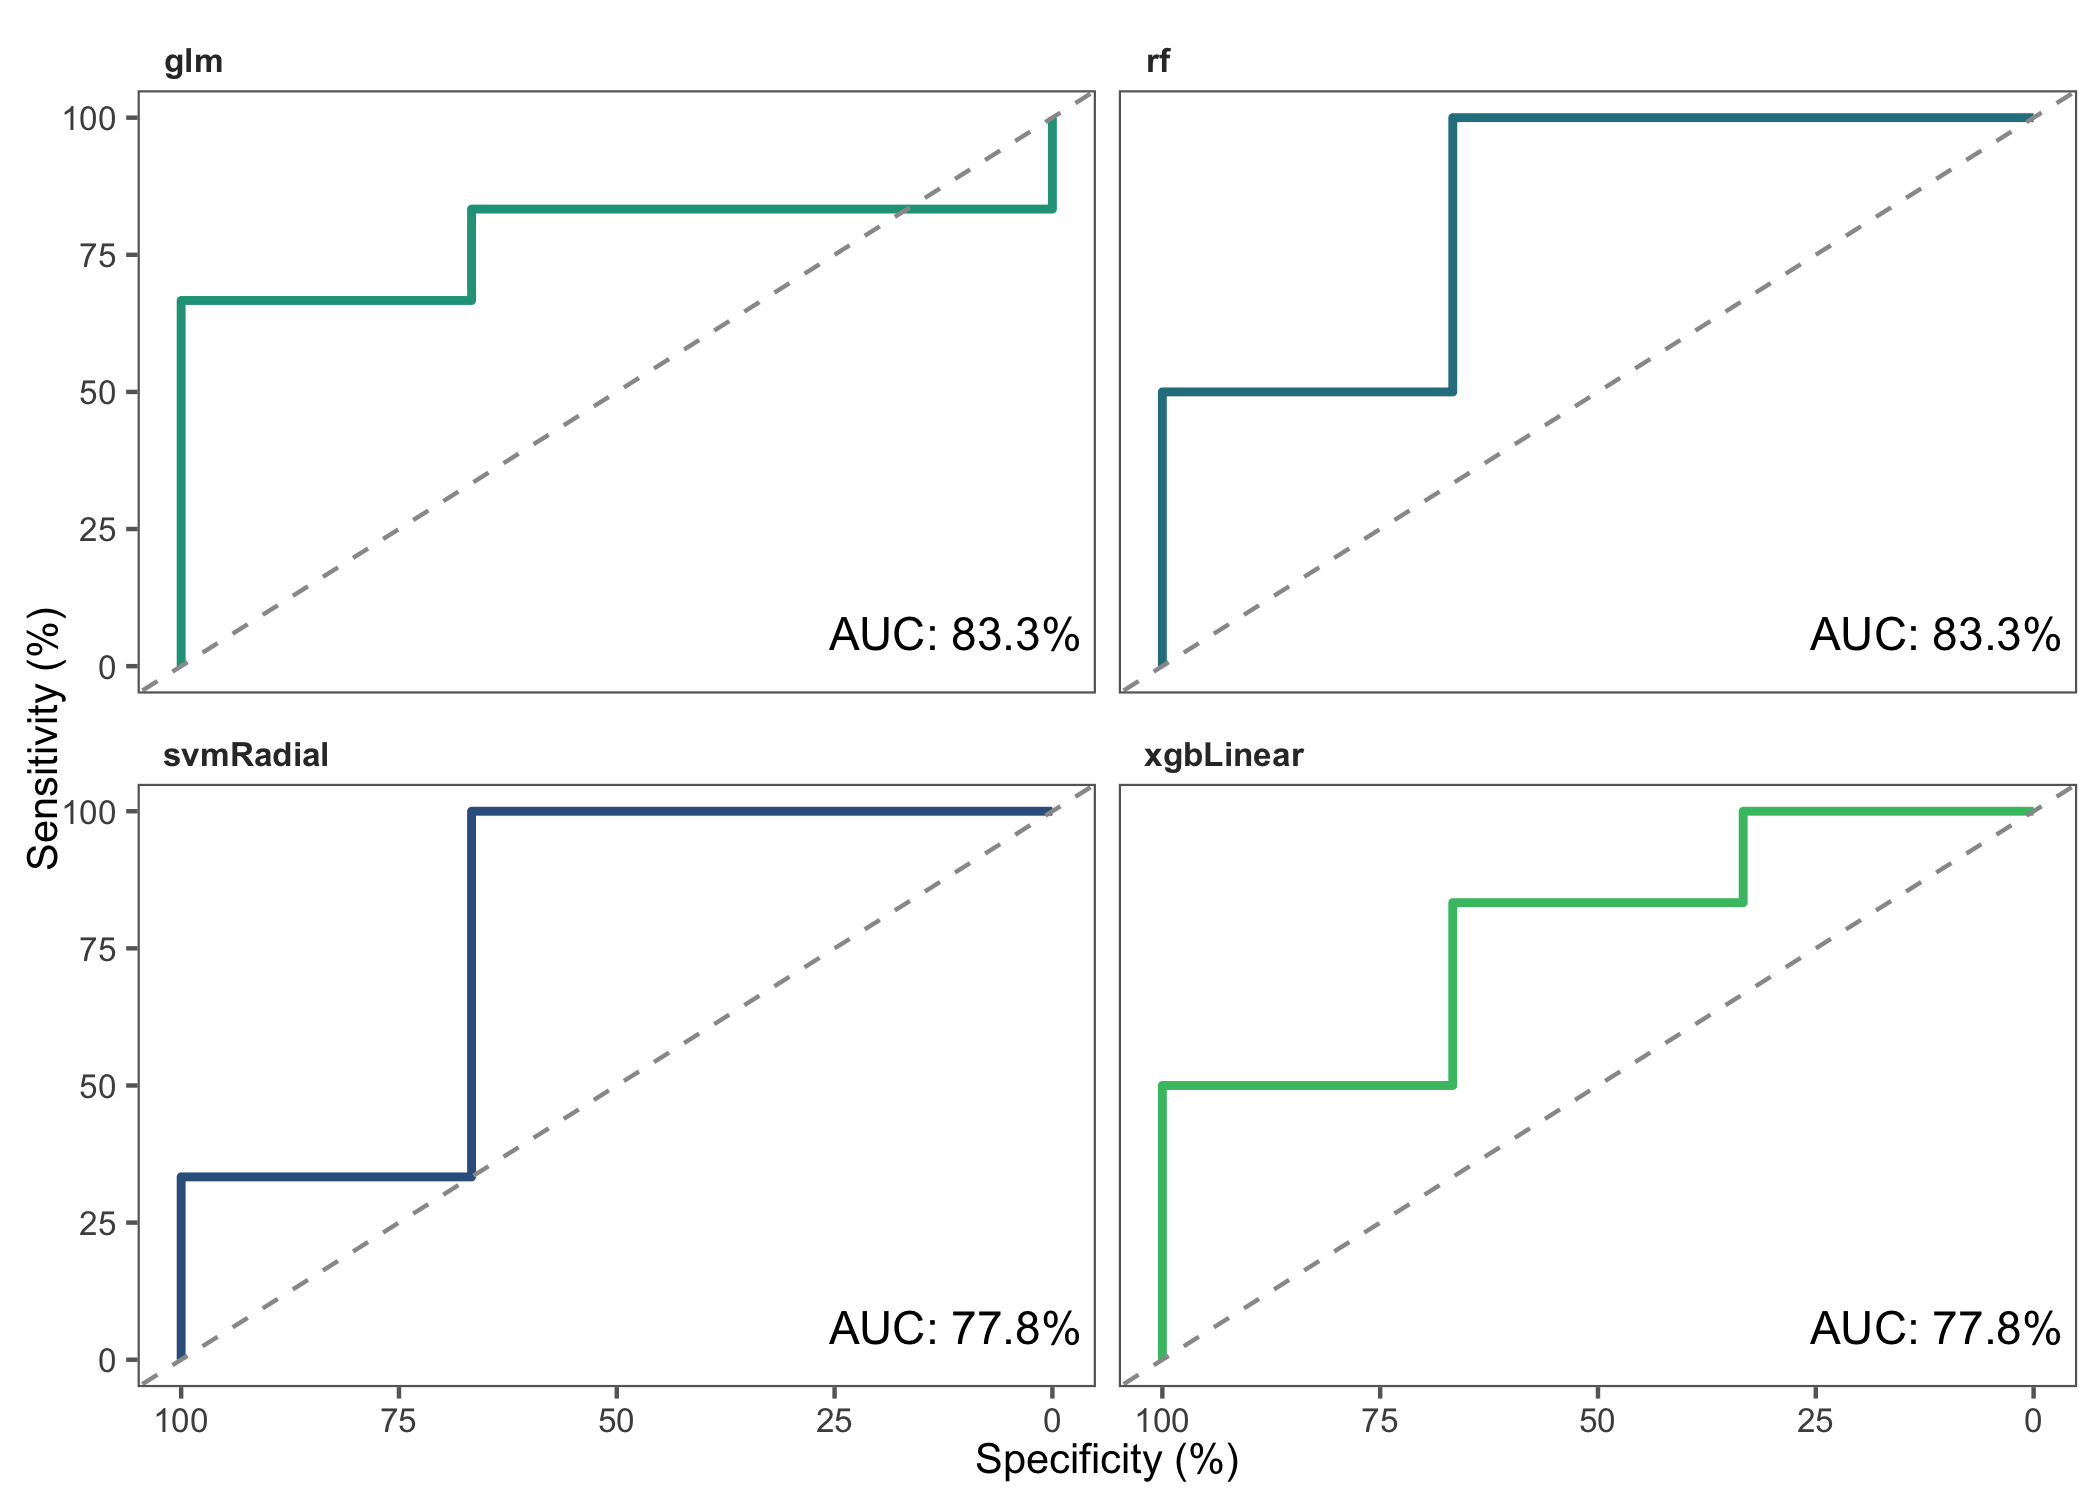
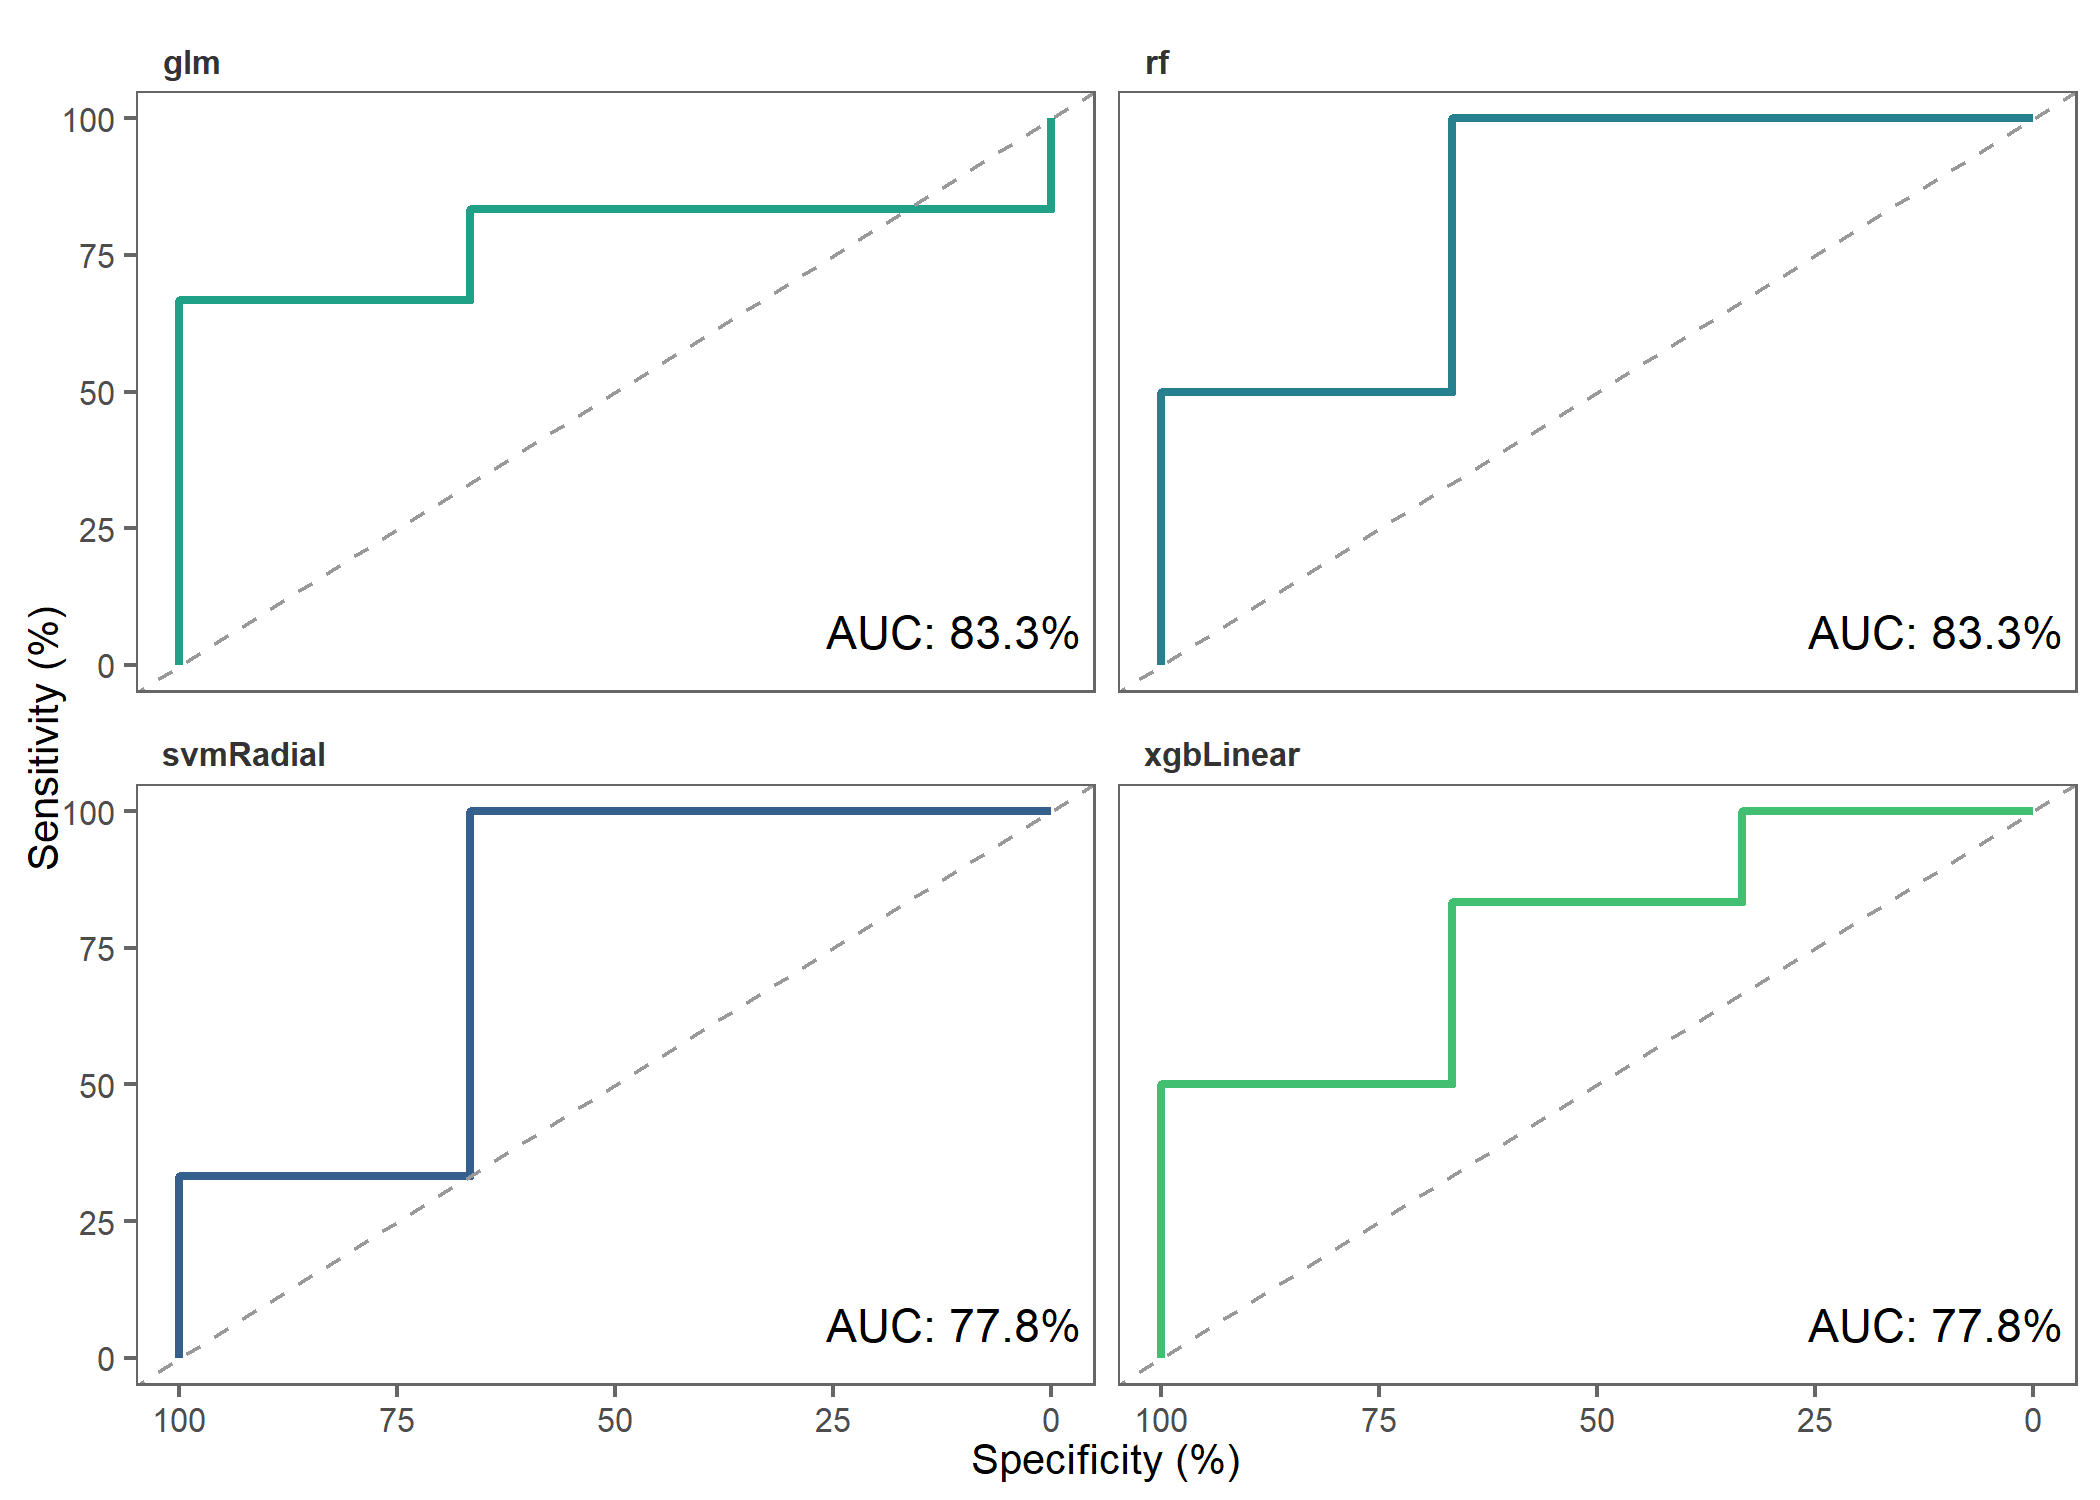
README updates

diff --git a/README.md b/README.md
@@ -46,9 +46,11 @@ For example, if promor is saved on your C drive, it could be :
 
 ## Proteomics data analysis with promor
 
-![promor flowchart by caranathunge](./promor_ProtAnalysisFlowChart.png)
-*Figure 1. A schematic diagram of suggested workflows for proteomics
-data analysis with promor.*
+<img src="./man/figures/promor_ProtAnalysisFlowChart_small.png"
+style="width:100.0%"
+alt="promor prot analysis flow chart by caranathunge" /> *Figure 1. A
+schematic diagram of suggested workflows for proteomics data analysis
+with promor.*
 
 ### Example
 
@@ -81,14 +83,18 @@ Lets take a look at the results using a volcano plot.
  volcano_plot(fit_df, text_size = 5)
 ```
 
-<img src="man/figures/README-volcanoplot-1.png" width="70%" style="display: block; margin: auto;" />
+<center>
+
+<img src="./man/figures/README-volcanoplot-1.png" style="width:70.0%" />
+
+</center>
 
 ## Modeling with promor
 
 ![promor flowchart-modeling by
-caranathunge](./promor_ProtModelingFlowChart.png) *Figure 2. A schematic
-diagram of suggested workflows for building predictive models with
-promor.*
+caranathunge](./man/figures/promor_ProtModelingFlowChart_small.png)
+{width=100%} *Figure 2. A schematic diagram of suggested workflows for
+building predictive models with promor.*
 
 ### Example
 
@@ -124,7 +130,9 @@ roc_plot(probability_list = covid_prob_list,
          split_df = covid_split_df)
 ```
 
-<img src="man/figures/README-rocplot-1.png" width="90%" style="display: block; margin: auto;" />
+<center>
+<img src="./man/figures/README-rocplot-1.png" style="width:70.0%" />
+</center>
 
 ## Tutorials
 
